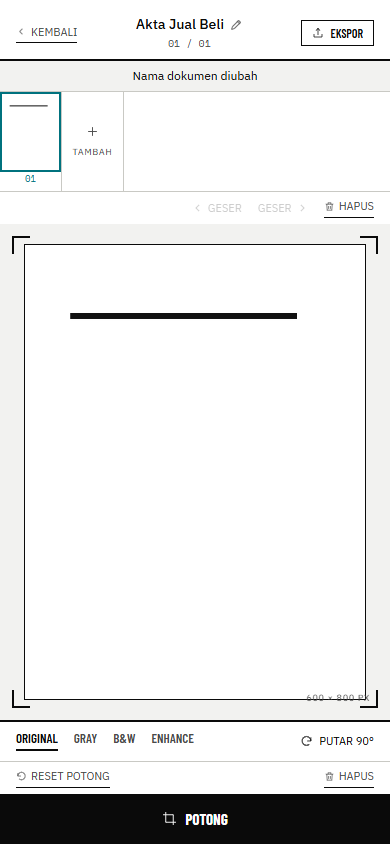
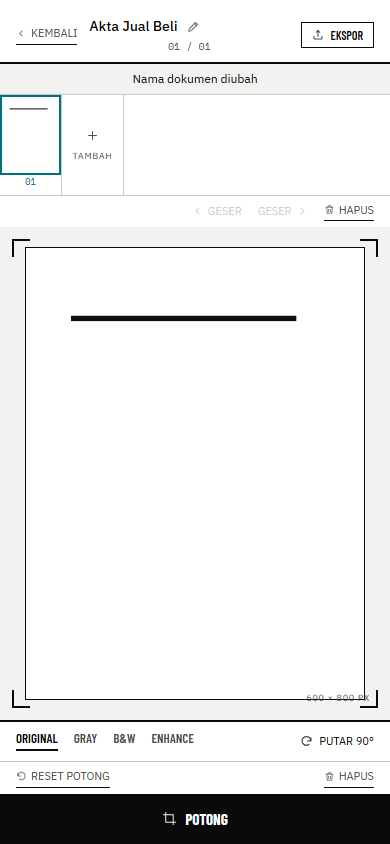
add: rename document

diff --git a/src/components/Library.tsx b/src/components/Library.tsx
@@ -19,6 +19,10 @@ export default function Library({ activeId, onOpen }: Props) {
   const [msg, setMsg] = useState<string | null>(null)
   const [renaming, setRenaming] = useState<string | null>(null)
   const [draft, setDraft] = useState('')
+  // Long press opens the row menu; the tap that ends it must not open the doc.
+  const [menu, setMenu] = useState<Dokumen | null>(null)
+  const pressTimer = useRef<number | null>(null)
+  const longPressed = useRef(false)
   const importRef = useRef<HTMLInputElement>(null)
   const { canInstall, installed, install, hint } = useInstall()
 
@@ -53,6 +57,20 @@ export default function Library({ activeId, onOpen }: Props) {
   const startRename = (d: Dokumen) => {
     setDraft(d.name)
     setRenaming(d.id)
+  }
+
+  const endPress = () => {
+    if (pressTimer.current !== null) window.clearTimeout(pressTimer.current)
+    pressTimer.current = null
+  }
+
+  const startPress = (d: Dokumen) => {
+    longPressed.current = false
+    endPress()
+    pressTimer.current = window.setTimeout(() => {
+      longPressed.current = true
+      setMenu(d)
+    }, 450)
   }
 
   const commitRename = async (d: Dokumen) => {
@@ -141,6 +159,7 @@ export default function Library({ activeId, onOpen }: Props) {
                       autoFocus
                       value={draft}
                       onChange={(e) => setDraft(e.target.value)}
+                      onFocus={(e) => e.currentTarget.select()}
                       onBlur={() => void commitRename(d)}
                       onKeyDown={(e) => {
                         if (e.key === 'Enter') void commitRename(d)
@@ -154,7 +173,22 @@ export default function Library({ activeId, onOpen }: Props) {
                 ) : (
                   <div className="flex items-center gap-3 border-b border-hair pr-4">
                     <button
-                      onClick={() => onOpen(d.id)}
+                      onClick={() => {
+                        // A long press already opened the menu; swallow the tap.
+                        if (longPressed.current) {
+                          longPressed.current = false
+                          return
+                        }
+                        onOpen(d.id)
+                      }}
+                      onPointerDown={() => startPress(d)}
+                      onPointerUp={endPress}
+                      onPointerLeave={endPress}
+                      onPointerCancel={endPress}
+                      onContextMenu={(e) => {
+                        e.preventDefault()
+                        setMenu(d)
+                      }}
                       className={`flex min-w-0 flex-1 items-center gap-3 py-2.5 pl-0 text-left ${
                         d.id === activeId ? 'bg-process-wash' : 'active:bg-plate'
                       }`}
@@ -181,13 +215,6 @@ export default function Library({ activeId, onOpen }: Props) {
                         </span>
                       </span>
                     </button>
-                    <button
-                      onClick={() => startRename(d)}
-                      aria-label={`Ubah nama ${d.name}`}
-                      className="shrink-0 p-2 text-ink-2 active:text-ink"
-                    >
-                      <Icon name="pencil" size={13} />
-                    </button>
                   </div>
                 )}
               </li>
@@ -200,6 +227,36 @@ export default function Library({ activeId, onOpen }: Props) {
         <Icon name="scan" size={15} />
         Scan baru
       </button>
+
+      {/* Long press on a row: the only place rename lives without a visible button. */}
+      {menu && (
+        <div className="fixed inset-0 z-30 flex items-end bg-ink/45" onClick={() => setMenu(null)}>
+          <div
+            className="w-full border-t-2 border-ink bg-paper pb-5"
+            onClick={(e) => e.stopPropagation()}
+          >
+            <div className="flex items-baseline justify-between gap-3 border-l-[3px] border-process px-5 py-3">
+              <span className="truncate text-[15px] font-medium">{menu.name}</span>
+              <button onClick={() => setMenu(null)} aria-label="Tutup" className="shrink-0 p-1 text-ink-2">
+                <Icon name="close" size={12} />
+              </button>
+            </div>
+            <div className="h-0.5 bg-ink" />
+            <div className="mt-4 px-5">
+              <button
+                onClick={() => {
+                  startRename(menu)
+                  setMenu(null)
+                }}
+                className="bar-action gap-2"
+              >
+                <Icon name="pencil" size={15} />
+                Ubah nama
+              </button>
+            </div>
+          </div>
+        </div>
+      )}
 
       {/* Install floats: it is the one action a browser-tab user cannot reach
           any other way, and it disappears once the app is on the home screen. */}

diff --git a/src/components/Editor.tsx b/src/components/Editor.tsx
@@ -212,6 +212,7 @@ export default function Editor({ id, onBack }: Props) {
                 autoFocus
                 value={draft}
                 onChange={(e) => setDraft(e.target.value)}
+                onFocus={(e) => e.currentTarget.select()}
                 onBlur={() => void commitRename()}
                 onKeyDown={(e) => {
                   if (e.key === 'Enter') void commitRename()
@@ -222,14 +223,16 @@ export default function Editor({ id, onBack }: Props) {
                 className="w-full border-b border-ink bg-transparent pb-0.5 text-center text-[14px] font-medium leading-tight outline-none"
               />
             ) : (
-              <button
-                onClick={startRename}
-                className="mx-auto flex max-w-full items-center gap-1.5"
-                aria-label={`Ubah nama ${doc.name}`}
-              >
+              <div className="mx-auto flex max-w-full items-center gap-1.5">
                 <span className="truncate text-[14px] font-medium leading-tight">{doc.name}</span>
-                <Icon name="pencil" size={13} className="text-ink-2" />
-              </button>
+                <button
+                  onClick={startRename}
+                  aria-label={`Ubah nama ${doc.name}`}
+                  className="shrink-0 p-1 text-ink-2 active:text-ink"
+                >
+                  <Icon name="pencil" size={13} />
+                </button>
+              </div>
             )}
             <div className="num mt-0.5 text-[10px] text-ink-2">
               {String(pages.findIndex((p) => p.id === activeId) + 1).padStart(2, '0')} /{' '}
